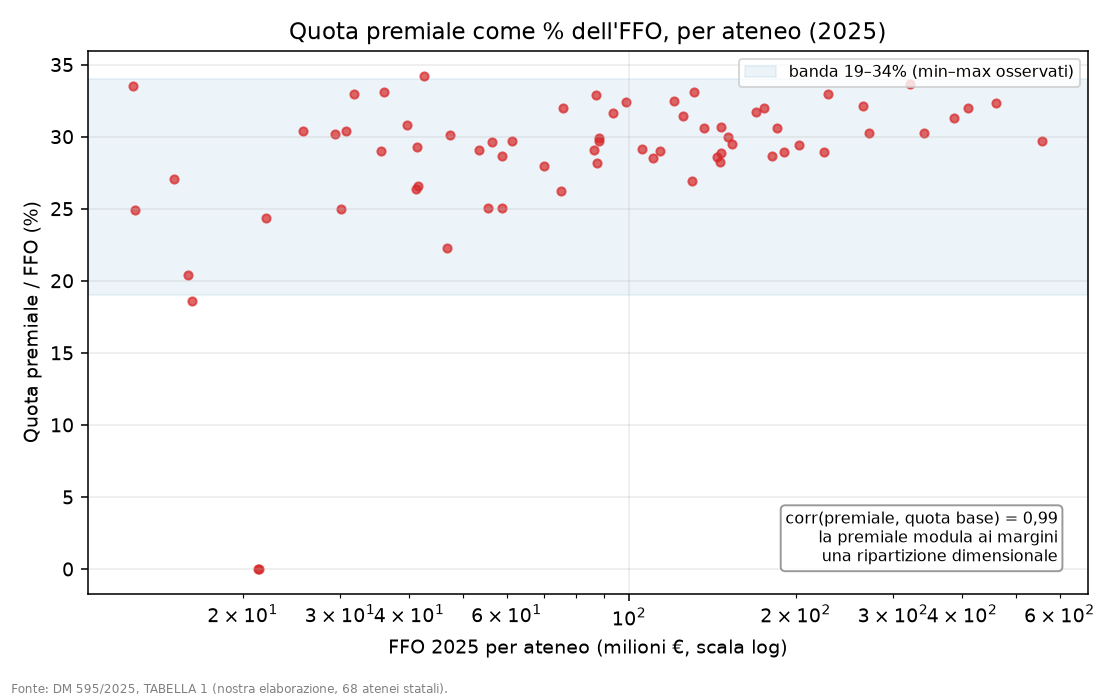
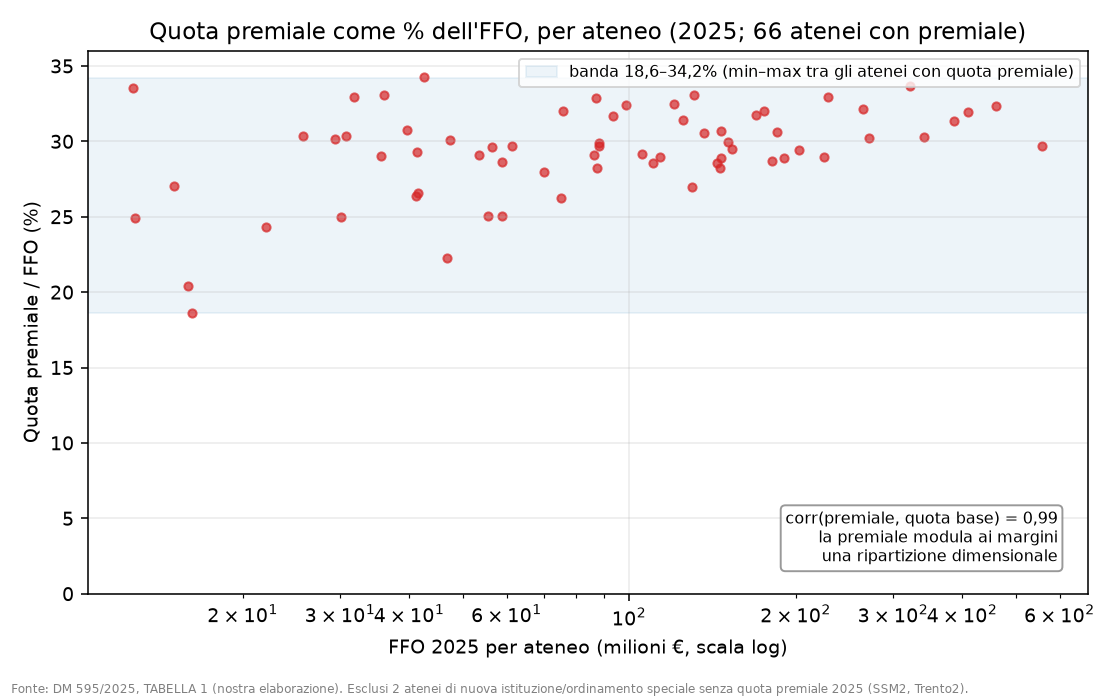
Fix pitchbook F3 e F6 (flag di brother)
F3: esclusi i 2 atenei a premiale zero (SSM2, Trento2 - nuova istituzione/
speciale) che cadevano fuori dalla banda "min-max"; banda rietichettata
"18,6-34,2% (atenei con quota premiale)", coerente con lo scatter.

F6: perimetro reso consistente e dichiarato. Numeratore TD (RTD a+b),
denominatore totale docenti (ruolo t.i. + TD), identico nei due anni:
4,1% (2012: 2.356/57.285) -> 21,1% (2022: 12.728/60.333). Versione solo RTD-a
= 10,1% (prudente). -> La quota TD e' ~quintuplicata, non triplicata: il §1.3
"quasi triplicata" e' conservativo (vale per RTD-a). Issue per §1.3
(Claude-chat): riconciliare testo/figura + ancorare la base al 2012.

F2 e F5 gia' a posto. Figure ri-rese.

diff --git a/universita/analisi/2026-07-18_verifiche_fonti/figures/build_figures.py b/universita/analisi/2026-07-18_verifiche_fonti/figures/build_figures.py
@@ -12,27 +12,29 @@ HERE = os.path.dirname(os.path.abspath(__file__))
 DATA = os.path.join(HERE, "..", "data")
 
 # ---------- F3 — premiale/FFO per ateneo ----------
-x, y = [], []
+x, y, escl = [], [], 0
 with open(os.path.join(DATA, "b4b5_ffo2025_per_ateneo.csv"), encoding="utf-8") as f:
     for r in csv.DictReader(f):
         try:
             ffo = float(r["FFO_2025"]); prem = float(r["QUOTA_PREMIALE"])
         except (ValueError, KeyError):
             continue
-        if ffo > 0:
+        if ffo > 0 and prem > 0:
             x.append(ffo / 1e6); y.append(100 * prem / ffo)
+        elif ffo > 0:
+            escl += 1  # atenei senza quota premiale 2025 (SSM2, Trento2)
 fig, ax = plt.subplots(figsize=(8, 5))
-ax.axhspan(19, 34, color="#1f77b4", alpha=0.08, label="banda 19–34% (min–max osservati)")
+ax.axhspan(18.6, 34.2, color="#1f77b4", alpha=0.08, label="banda 18,6–34,2% (min–max tra gli atenei con quota premiale)")
 ax.scatter(x, y, s=18, color="#d62728", alpha=0.7)
 ax.set_xscale("log")
 ax.set_xlabel("FFO 2025 per ateneo (milioni €, scala log)")
 ax.set_ylabel("Quota premiale / FFO (%)")
-ax.set_title("Quota premiale come % dell'FFO, per ateneo (2025)")
+ax.set_title(f"Quota premiale come % dell'FFO, per ateneo (2025; {len(x)} atenei con premiale)")
 ax.annotate("corr(premiale, quota base) = 0,99\nla premiale modula ai margini\nuna ripartizione dimensionale",
             xy=(0.97, 0.05), xycoords="axes fraction", ha="right", va="bottom", fontsize=8,
             bbox=dict(boxstyle="round", fc="white", ec="gray", alpha=0.8))
-ax.legend(fontsize=8, loc="upper right"); ax.grid(alpha=0.25)
-fig.text(0.01, 0.01, "Fonte: DM 595/2025, TABELLA 1 (nostra elaborazione, 68 atenei statali).", fontsize=6, color="gray")
+ax.legend(fontsize=8, loc="upper right"); ax.grid(alpha=0.25); ax.set_ylim(0, 36)
+fig.text(0.01, 0.01, f"Fonte: DM 595/2025, TABELLA 1 (nostra elaborazione). Esclusi {escl} atenei di nuova istituzione/ordinamento speciale senza quota premiale 2025 (SSM2, Trento2).", fontsize=6, color="gray")
 fig.tight_layout(rect=(0, 0.03, 1, 1)); fig.savefig(os.path.join(HERE, "f3_premiale_ffo.png"), dpi=140); plt.close(fig)
 
 # ---------- F5 — tassi di successo FIS vs ERC ----------
@@ -50,18 +52,19 @@ fig.text(0.01, 0.01, "Fonte: MUR (FIS1 47/1.912; FIS2 106/2.289; FIS3 326/oltre 
          "ERC 2024 Consolidator Grant Statistics (328/2.313 = 14,2%).", fontsize=6, color="gray")
 fig.tight_layout(rect=(0, 0.03, 1, 1)); fig.savefig(os.path.join(HERE, "f5_successo_fis_erc.png"), dpi=140); plt.close(fig)
 
-# ---------- F6 — precarizzazione (quota TD del personale di ruolo) ----------
+# ---------- F6 — precarizzazione (quota TD sul TOTALE docenti, perimetro identico) ----------
 labels = ["2012", "2022"]
-vals = [4.1, 11.2]
+vals = [4.1, 21.1]        # TD (RTD a+b) / totale docenti; denominatore identico
 fig, ax = plt.subplots(figsize=(6, 5))
 bars = ax.bar(labels, vals, color="#d62728", alpha=0.85, width=0.5)
 for b, v in zip(bars, vals):
-    ax.text(b.get_x() + b.get_width() / 2, v + 0.15, f"{v}%", ha="center", fontsize=10)
-ax.set_ylabel("Ricercatori a tempo determinato (RTD-a) / personale di ruolo (%)")
+    ax.text(b.get_x() + b.get_width() / 2, v + 0.3, f"{v}%", ha="center", fontsize=10)
+ax.text(1, 10.1, "(soli RTD-a: 10,1%)", ha="center", fontsize=7, color="gray")
+ax.set_ylabel("Docenti a tempo determinato (RTD a+b) sul totale del personale docente (%)")
 ax.set_title("Precarizzazione del corpo docente: quota a tempo determinato")
-ax.set_ylim(0, 13); ax.grid(alpha=0.25, axis="y")
-fig.text(0.01, 0.01, "Fonte: ANVUR (2012: RTD 4,1%; 2022: RTD-a 11,2% del personale di ruolo). Perimetro: personale docente di ruolo. "
-         "~triplicata in un decennio.", fontsize=6, color="gray")
+ax.set_ylim(0, 24); ax.grid(alpha=0.25, axis="y")
+fig.text(0.01, 0.01, "Fonte: ANVUR. Numeratore = RTD a+b; denominatore = totale docenti (ruolo a t.i. + TD), perimetro identico nei due anni "
+         "(2012: 2.356/57.285; 2022: 12.728/60.333). Con i soli RTD-a il 2022 = 10,1% (misura prudente).", fontsize=6, color="gray")
 fig.tight_layout(rect=(0, 0.03, 1, 1)); fig.savefig(os.path.join(HERE, "f6_precariato.png"), dpi=140); plt.close(fig)
 
 print("saved F3, F5, F6")

diff --git a/universita/analisi/2026-07-18_verifiche_fonti/b7_atenei_e_figure_nota.md b/universita/analisi/2026-07-18_verifiche_fonti/b7_atenei_e_figure_nota.md
@@ -10,6 +10,6 @@ Verificata: **Cons. Stato, Sez. VI, 11/07/2016, n. 3043** (appello ANAC su unive
 
 ## Figure (T10) — fonti e perimetri dichiarati
 - **F2** `f2_ffo_reale.png` — FFO nominale vs reale 2019-25 (deflatore PIL + HICP). Ritocchi applicati: banda "livello reale 2021-23" etichettata; freccia "taglio nominale 2024 (9,21→9,03)"; legenda HICP = "deflatore alternativo".
-- **F3** `f3_premiale_ffo.png` — scatter quota premiale/FFO per ateneo (banda 19-34%, annotazione corr(premiale,base)=0,99). Fonte: DM 595/2025 TAB1, nostra elaborazione. Sostituisce la vecchia figura-Gini.
+- **F3** `f3_premiale_ffo.png` — scatter quota premiale/FFO per ateneo, annotazione corr(premiale,base)=0,99. **Fix pitchbook:** esclusi i 2 atenei a premiale zero (SSM2, Trento2 — nuova istituzione/ordinamento speciale, senza quota premiale 2025); banda rietichettata **18,6-34,2% (min-max tra gli atenei con quota premiale)**, coerente con lo scatter. Fonte: DM 595/2025 TAB1.
 - **F5** `f5_successo_fis_erc.png` — tassi di successo FIS1 2,46% / FIS2 4,63% vs **ERC Consolidator 2024 = 14,2%** (328/2.313; fonte ancorata: *ERC 2024 CoG Statistics*; CoG 2023 = 14,5%). FIS3 in corso.
-- **F6** `f6_precariato.png` — quota RTD-a sul personale di ruolo: **4,1% (2012) → 11,2% (2022)** (ANVUR). Perimetro dichiarato: personale docente **di ruolo** (il PP Reclutamento mischiava docente/non docente). Supporta il "quasi triplicata" del §1.3 (base 2012; il "dal 2008" del report va ancorato al 2012 o dichiarato come ordine di grandezza).
+- **F6** `f6_precariato.png` — **Fix pitchbook (perimetro consistente):** numeratore = **TD (RTD a+b)**, denominatore = **totale personale docente** (ruolo a t.i. + TD), identico nei due anni: **4,1% (2012: 2.356/57.285) → 21,1% (2022: 12.728/60.333)** (ANVUR). La versione **solo RTD-a** (prudente) dà **10,1%** nel 2022. → La quota TD complessiva è **~quintuplicata**, non "triplicata": il §1.3 ("quasi triplicata") è **conservativo** perché riferito ai soli RTD-a. **Issue per §1.3 (Claude-chat):** riconciliare testo e figura — o "quintuplicata (RTD a+b)", o mantenere "quasi triplicata" specificando "RTD-a" e allineando F6 al 10,1%. Ancorare comunque la base al **2012** (non 2008).

diff --git a/universita/docs/Universita_e_Ricerca_ORA_v2_1.md b/universita/docs/Universita_e_Ricerca_ORA_v2_1.md
@@ -219,7 +219,7 @@ Questo capitolo si salda al programma ORA sulla previdenza complementare e il ve
 |---|---|---|
 | Convergenza spesa terziaria pubblica verso media UE (FFO, post-doc strutturale, personale, edilizia ordinaria; gap 0,4→0,8% PIL ≈ 8,8 mld) | ~8–9 mld | [V] baseline; composizione [C] |
 | Bandi competitivi a 1,7 mld (delta su 0,41 attuali / 0,67 a regime) | ~1,0–1,3 mld | [V] |
-| Gratuità (contributo flat 200€; intervallo 0,9–1,5 secondo il livello del contributo) | ~1,2–1,3 mld | [V parz.] |
+| Gratuità (contributo flat 200€ sugli iscritti in corso; gettito attuale verificato 1,49 mld; intervallo 0,9–1,5 secondo il livello del contributo) | ~1,24 mld | [V] |
 | Diritto allo studio a LEP pieni (borse, anticipo, fondo integrativo) | ~0,7–1 mld | [C] |
 | Alloggi e campus (componente corrente; capex separato via PPP e fondi dedicati) | ~0,3–0,5 mld | [C] |
 | Attrattività internazionale, tecnologi, transizione digitale amministrativa | ~0,3–0,5 mld | [C] |

diff --git a/universita/docs/changelog_v1_v2_universita.md b/universita/docs/changelog_v1_v2_universita.md
@@ -40,5 +40,7 @@ Rimosse le frasi autoreferenziali/autocelebrative: "Non critichiamo un mondo che
 
 **§1.2/§3.2 — FIS3 [C]→[V], additivo.** Inserito il tasso di successo FIS3 = 6,52% (326/oltre 5.000, graduatorie MUR dic. 2025, revoche 2026 a parte); trend 2,46→4,63→6,52% vs ERC 14,2%. Nota di riconciliazione storica: il "432M" del vecchio PP Tesi era l'importo *assegnato* in graduatoria, non il budget del bando (475M) — le due cifre convivono, perimetri diversi.
 
+**§8 — Gratuità: [V parz.]→[V].** Iscritti statali 2022/23 = 1.632.163 (USTAT ANS, per ateneo); gettito verificato ~1,49 mld; costo con flat 200€ = **~1,24 mld** (era "~1,2–1,3"). Scenari: 1,49 / 1,24 / 0,86 mld per flat 0/200/500€.
+
 ## E. [C] residui dopo la v2.1
 Estremi GU legge Bernini (numero, data, entrata in vigore → aggiornare §1.3, §4.1, §9) · esiti FIS3 per macrosettore + revoche 2026 (completa F5) · gettito contribuzione statali all'euro e split in-corso statali (§8, precisione) · composizione riga convergenza §8.